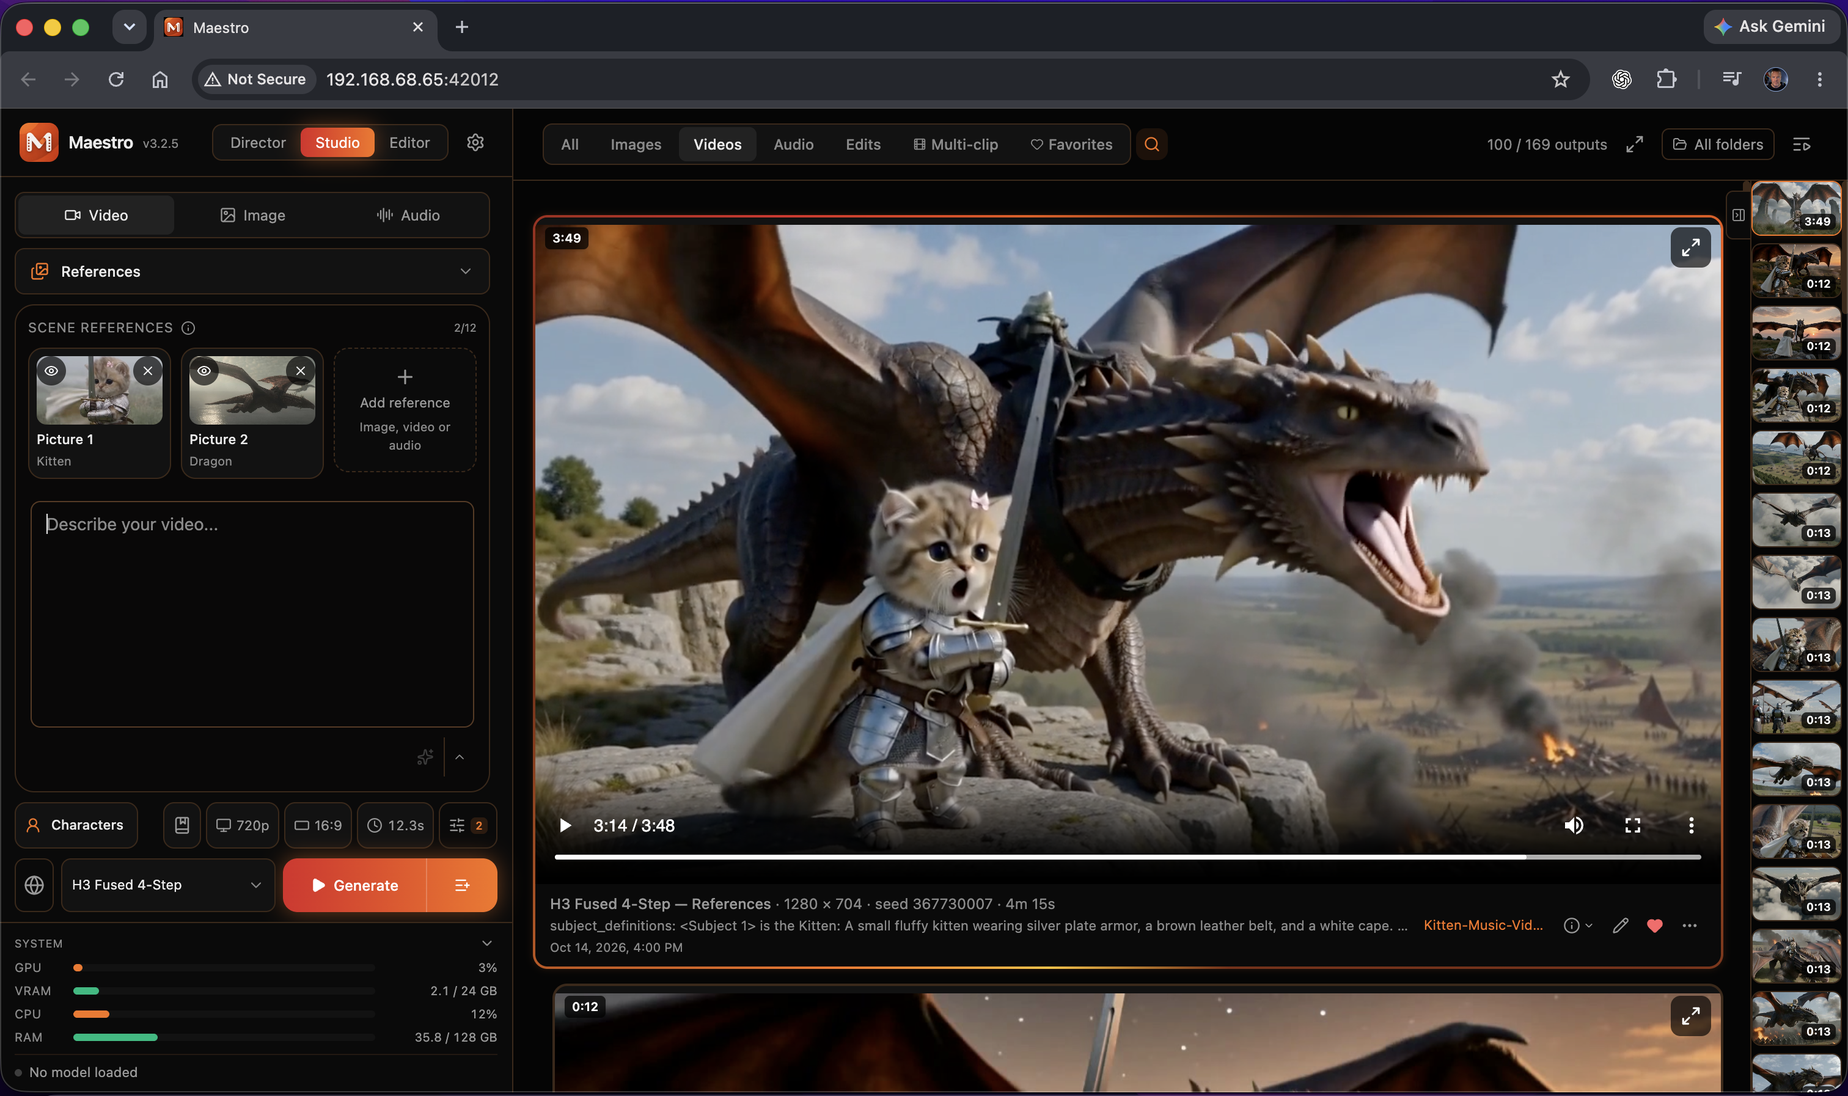
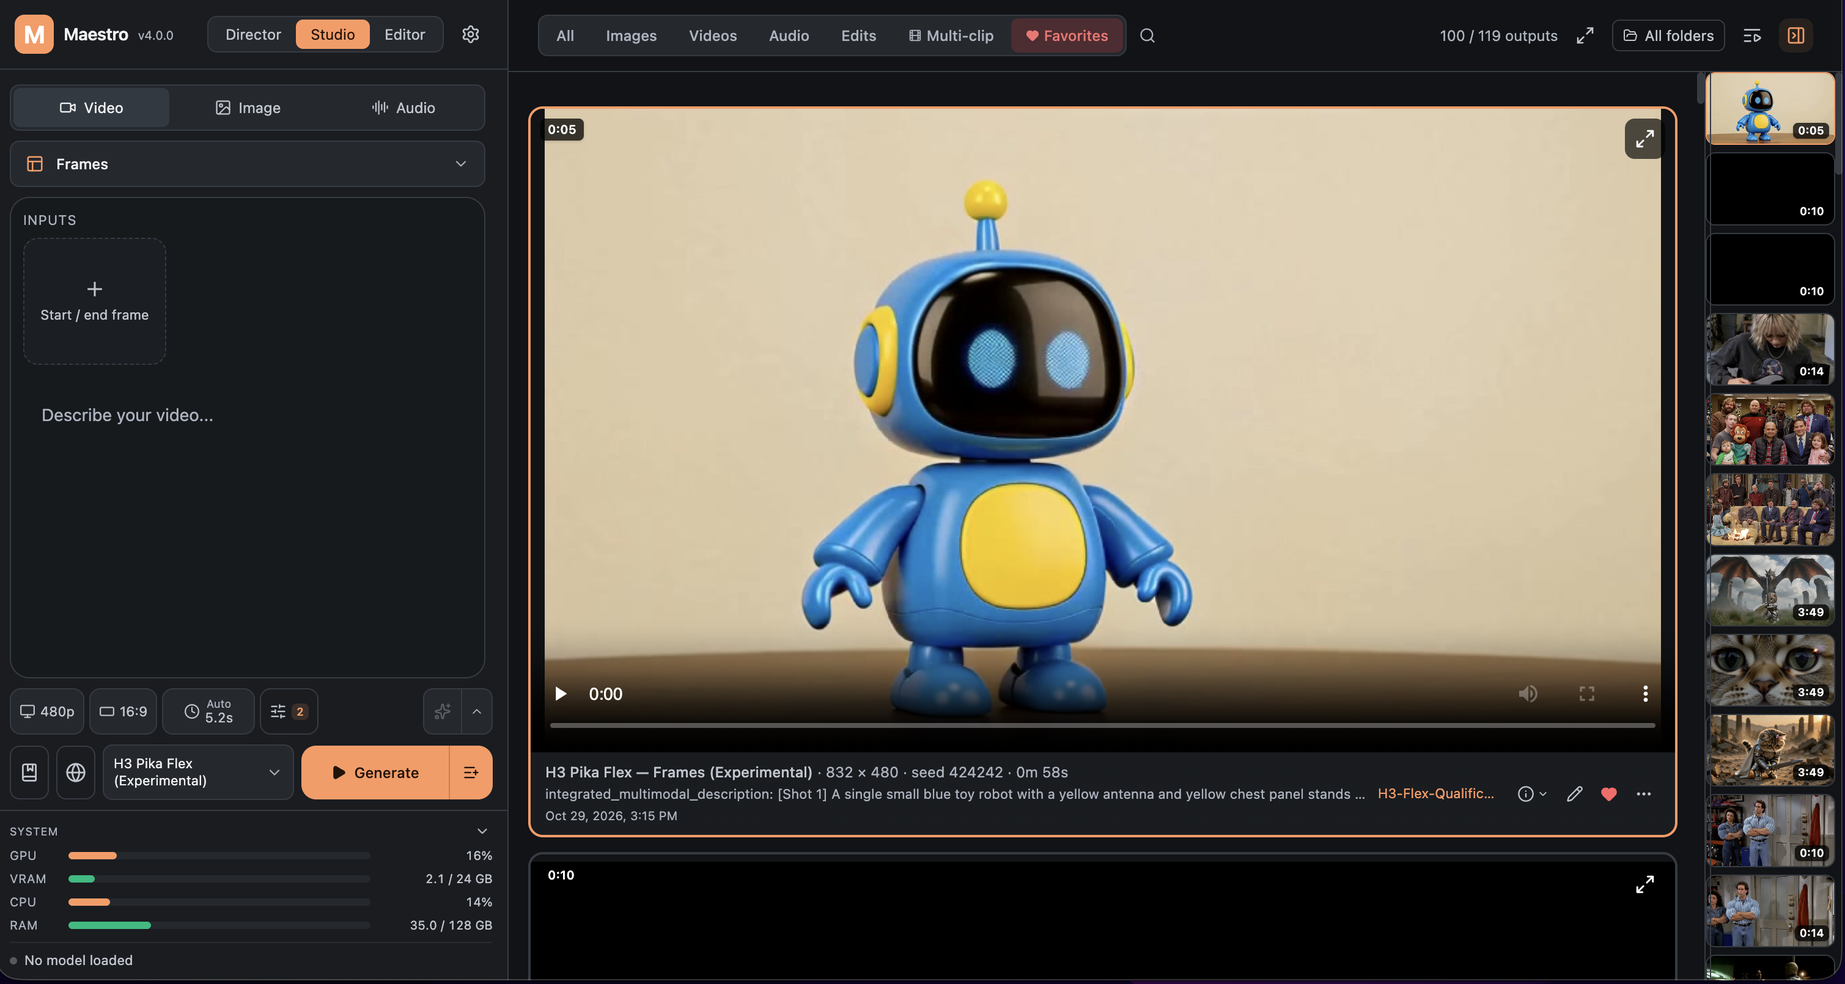
Prepare v4 candidate release notes and Graphite Studio overview

diff --git a/docs/RELEASE_NOTES_V4.0.0.md b/docs/RELEASE_NOTES_V4.0.0.md
@@ -1,11 +1,25 @@
-# Maestro v4.0.0 — Dev release candidate
+# Maestro v4.0.0 — Release candidate
 
-29 October–2 November 2026. The next major release is available on **public Dev** for
-testing. Public Main remains v3.2.5 until its separate release review. This
-candidate combines the changes below with the fixes already tested on Dev.
+Candidate notes reviewed 4 November 2026. Public Main remains v3.2.5 until
+promotion is approved. These notes describe the v4 candidate, including the
+latest reliability and reference-enhancement fixes.
 
 ## Changes since v3.2.5 Main
 
+- **A larger Editor upgrade:** a media bin, preview, Inspector and multi-track
+  timeline; more direct trimming, linked edits, transitions, keyframes, color
+  and audio controls; media previews/proxies, project recovery and export
+  options. AI round trips retain source/take information. Local Auto-edit
+  proposes a reviewable plan before changes are applied and supports undo;
+  it does not silently replace an authored timeline. Tracks are shorter and
+  the timeline height is adjustable. [Editor guide](Editor.md).
+- **Pika H3 Flex:** experimental Frames and References models, included in
+  their default enabled lists. Its fixed six-evaluation recipe uses SLA on
+  supported runtimes with a dense fallback. Sliding windows carry recent
+  motion frames, a boundary frame and stereo audio; References also retains
+  ordered source inputs. Exact source-audio conditioning and per-shot
+  soundtrack offsets support Director music videos. Experimental 1080p joins
+  the 480p, 540p, 720p and 768p choices. [Pika guide](guides/pika-h3-flex.md).
 - **Built-in Agent Access/MCP:** independent Local MCP over STDIO and Remote
   MCP over authenticated HTTPS, with optional Tailscale setup, scoped approval
   and revocable clients. Agents receive model capabilities, prompting guides,
@@ -13,6 +27,13 @@ candidate combines the changes below with the fixes already tested on Dev.
   Director productions directly, including lyrics and music-video plans using
   native song/beat analysis. Existing Pinokio and LAN browser access remains
   available. [Setup and client requirements](Agent-Access.md).
+- **Optional ComfyUI integration:** discover and reuse configured model
+  folders without moving weights, import API workflows with typed inputs and
+  component pickers, and validate them before generation. Supported Studio
+  routes and Director paths can use explicitly selected ComfyUI mappings.
+  Native remains the default. ComfyUI and its nodes must be installed and
+  managed separately; importing an arbitrary graph does not make it compatible
+  with every Maestro feature. [ComfyUI guide](ComfyUI.md).
 - **Pinokio Remote integration:** detects this installation's published browser
   address, offers a QR code and optional MCP access through the same private
   HTTPS route, and avoids a second Tailscale setup. Existing local, LAN and
@@ -33,12 +54,6 @@ candidate combines the changes below with the fixes already tested on Dev.
   enhancement and model controls. Startup and mobile recovery show loading
   states while controls and the workspace become ready. Near-widescreen videos
   use their native proportions to avoid narrow black gaps inside gallery cards.
-- **A larger Editor upgrade:** a media bin, preview, Inspector and multi-track
-  timeline; more direct trimming, linked edits, transitions, keyframes, color
-  and audio controls; media previews/proxies, project recovery and export
-  options. AI round trips retain source/take information. Local Auto-edit
-  proposes a reviewable plan before changes are applied and supports undo;
-  it does not silently replace an authored timeline.
 - **Animated titles in Studio and Editor:** describe an animation in your own
   words, optionally choose a style, and use AI planning when wanted. Frames
   generation uses a matching canvas rather than unrelated character references.
@@ -51,13 +66,10 @@ candidate combines the changes below with the fixes already tested on Dev.
   guides and updated FLUX/Qwen/image-writer guidance preserve the requested
   artistic medium. Fixes cover FLUX 3 model switching, MOSS mode switching and
   rectangular Fibo VAE decoding.
-- **H3 workflows:** experimental Pika H3 Flex for Frames and References, now
-  included in their default model lists. Its fixed six-evaluation recipe uses
-  SLA on supported runtimes with a dense fallback. Experimental sliding
-  windows carry recent motion frames, a boundary frame and stereo audio;
-  References also retains the ordered source references. Additions include
-  workflow-matched LightX2V accelerators, PTD RefAsymOPD presets and compatible
-  two-pass latent refinement. Existing model-specific recipes remain separate.
+- **H3 accelerators and refinement:** workflow-matched LightX2V accelerators,
+  PTD RefAsymOPD presets and compatible two-pass latent refinement. Existing
+  model-specific recipes remain separate; two-pass is off by default and
+  applies only to compatible standard H3 Euler jobs.
 - **Pika Flex controls:** Frames and References offer 480p, 540p, 720p, 768p
   and experimental 1080p. Reusing a native clip restores its single window;
   resolution and aspect changes retain explicitly chosen window lengths and
@@ -93,6 +105,16 @@ candidate combines the changes below with the fixes already tested on Dev.
   even under a CUDA default tensor device. The vision encoder still receives
   the explicitly selected device and precision. This avoids unintended
   preprocessing allocations; it is not a general low-memory guarantee.
+- **Reference enhancement and dialogue recovery:** video references expose
+  Character / identity, Motion / camera and Scene roles independently from
+  their audio role. Native Subject IDs and vocal IDs stay separate. Recover
+  exact speaker ownership when a listener or named prop appears near a line,
+  preserve authored speech rather than imposing a shorter writing target,
+  and avoid duplicate native sound fields in fallback prompts. A narrowly
+  identifiable final `<d>words<d>` typo is repaired without changing its words;
+  ambiguous or nested tags return a clear error. Focused repairs receive the
+  validation reasons and missing lines. Existing Motion or legacy soundtrack
+  references are not silently converted to character or voice references.
 - **Reliable startup:** the API reserves its actual bind interface through
   server startup and announces the Maestro URL only after its listener is
   ready. Busy ports fall back without taking over a shared Pinokio service.
@@ -125,12 +147,24 @@ Pika's exact-audio path completed two 124-frame reference shots and a 248-frame
 join at 832×480 / 24fps / SLA on the RTX 4090. Full CPU decoding, frame counts,
 source-audio correspondence and fixed target-audio runtime evidence passed.
 This confirms functionality for the tested case, not perfect lip sync. These
-latest MCP and LoRA changes await user testing on the 12GB and 8GB workstations.
+results belong to the earlier v4 candidate and are not a blanket qualification
+of every later fix or model setting.
 
-The release candidate is undergoing a bounded overnight check on the RTX 4090
-(24GB), RTX 3080 Ti (12GB) and RTX 5070 Laptop (8GB), alongside CPU and isolated
-UI regressions. Results must be reviewed before promoting Main; this document
-does not claim that the overnight matrix has already passed.
+The bounded three-workstation qualification completed on 3 November with the
+RTX 4090 (24GB), RTX 3080 Ti (12GB) and RTX 5070 Laptop (8GB). Reviewed native
+renders, ComfyUI outputs, Editor exports and CPU/browser checks were retained.
+Real ComfyUI Wan generation was checked on all three machines; mapped Director
+routes and reference-edit semantics have narrower CPU/mock or manual coverage.
+Local MCP was checked on 01 and 02. It remained off and unowned on 03, so that
+machine's owner-approval gate was respected rather than bypassed for a test.
+
+The 4 November reference-enhancement fixes have CPU regression coverage and
+fresh Gemma/Qwen prompt checks on 01. Four checks preserved the six supplied
+spoken lines and their native speaker bindings without a final fallback.
+These were enhancement checks, not new video renders. A writer can still
+change action detail or return an inconclusive continuity review. The latest
+revision needs final user acceptance; earlier fleet results do not establish
+that every new fix has been rendered again on 12GB and 8GB hardware.
 
 Pika continuation has two decoded 480p functional checks on the 4090. Those
 checks preserve the tested frame counts and actual motion/audio history, but
@@ -143,6 +177,29 @@ certified GPU OOM-recovery result and excludes Fish/CUDA graph capture.
 Experimental features do not establish every GPU, model, long Director project,
 Linux configuration or output-quality claim. Keep important projects and compare
 actual outputs before adopting a new workflow.
+
+Model weights retain their own licenses and use restrictions. In particular,
+review the [Fibo](Fibo-2.md) and [Worlds](Worlds-Hy-Nomas.md) guides before using
+those optional models; Maestro's application license does not replace theirs.
+
+## Upgrade and optional setup
+
+Use Pinokio's Update action while the installation is idle, restart Maestro,
+and refresh the browser. Existing projects and media remain available;
+model-specific defaults and compatibility checks still apply when selecting a
+workflow. The deliberate appearance change is described below.
+
+ComfyUI, Local MCP and Remote MCP are optional. Local MCP needs no Tailscale;
+Remote MCP can reuse an existing Pinokio Remote HTTPS route or the separate
+Tailscale integration. Follow the client-specific Agent Access instructions.
+Enabling an agent connection does not require changing ordinary LAN browser
+access or automatically configuring a ComfyUI server.
+
+When reusing older video references for a character, choose **Character /
+identity** and, for a cloned speaking voice, **Voice reference** as the video's
+audio role. A **Motion / camera** video or a legacy paired soundtrack keeps
+that role until changed explicitly. A room or environment image belongs under
+**Scene**; **Composition** controls framing and blocking rather than identity.
 
 ## First opening v4
 

diff --git a/README.md b/README.md
@@ -2,7 +2,7 @@
 
 A one-click local AI **creative studio, director, and video editor** for creators. Maestro combines a modern interface with powerful image, video, and audio generation, an LLM-directed production workflow, and a non-destructive multi-track editor. Optimized for LTX-2.5, MiniMax H3, and the latest local creative models and LoRAs.
 
-![Maestro v3.2.5 Studio with image references and a generated video](docs/images/maestro-ui-october-2026.png)
+![Maestro v4 Studio in Graphite Dark with an experimental Pika H3 Flex video](docs/images/maestro-ui-october-2026.png)
 
 [Features](#what-it-does) · [Install](#install) · [Updates](#updates) · [Guides](docs/README.md) · [Full update history](docs/UPDATE_HISTORY.md)
 
@@ -21,6 +21,7 @@ Create with **Studio**, plan a production with **Director**, and finish it in th
 - **Reusable characters and references.** Save and share characters with appearance references and optional voices. Combine image, video and audio references in supported workflows to guide identity, action and sound. [Characters and RefMods](docs/Maestro-Characters.md).
 - **Built-in AI writing.** Local language and vision models help develop prompts and plan productions, with models downloaded on first use. Optional external providers include OpenAI, Anthropic and compatible local endpoints such as LM Studio. [Local AI guide](docs/LLM-runtime.md).
 - **Connect your AI agent.** Built-in MCP lets compatible agents discover capabilities, write model-aware prompts, use saved references, submit Studio and Director work, and manage projects. Use Local MCP on the Maestro computer or optional authenticated Tailscale access from another computer. [Agent Access setup](docs/Agent-Access.md).
+- **Bring your ComfyUI setup.** Reuse configured model folders, import and validate API workflows, or map supported Maestro requests to an existing ComfyUI server. The integration is optional and off by default; ComfyUI and its custom nodes remain separately managed. [ComfyUI guide](docs/ComfyUI.md).
 - **Models and LoRAs in one place.** Browse compatible CivitAI LoRAs and community checkpoints, manage downloads and updates, and use prompting guides and recommended strengths. [H3 checkpoint imports](docs/H3-checkpoint-import.md).
 - **Performance matched to your PC.** Auto-Tune uses your GPU, VRAM and RAM to choose starting settings. Quantization, memory offloading and duration recommendations help smaller GPUs, while advanced controls remain available. [Performance guide](docs/Performance-auto-tune.md).
 - **An organized library, wherever you work.** Separate projects into workspaces, search across folders, save favorites and reload generation settings. Use the responsive interface on a phone or tablet, with optional completion alerts and private Tailscale access to your running PC. [Remote access and notifications](docs/TAILSCALE_REMOTE_ACCESS.md).
@@ -36,33 +37,34 @@ Runtime upgrades are explicit menu actions. A missing performance-runtime marker
 does not automatically run Update when you open the launcher. If offered,
 **Start with Compatibility Runtime** keeps the existing runtime available.
 
-### v4.0.0 (updated 2026-11-02) — Dev release candidate
+### v4.0.0 (updated 2026-11-04) — Release candidate
 
 The next major Main release is being prepared on **Dev** as v4.0.0.
 
-- **A fresh appearance:** first opening v4 switches to Graphite Studio in Dark
-  mode, including browsers with a saved theme. This happens once; choose another
-  theme or appearance in Settings afterward and that choice stays saved.
 - **An upgraded Editor and animated titles:** a fuller editing workspace,
-  reviewable Auto-edit plans, chroma key and transparent MOV export; titles can
-  also be generated directly in Studio.
-- **New creative models and tools:** MOSS reference editors, Fibo 2.0, H3
-  accelerators/PTD/two-pass options, FlashVSR+ Turbo and experimental Pika H3
-  Flex with motion/audio sliding windows. Flex is enabled in the default Frames
-  and References lists. Worlds and Profile 0 remain optional experimental tools.
-- **Pika Flex control fixes:** five resolution tiers from 480p through experimental
-  1080p; clip settings reuse and resolution/aspect changes retain an explicitly
-  chosen window. Incompatible First Block and extra Turbo controls are excluded.
-- **Smoother daily use:** compact pinned Studio controls, clearer startup and
-  mobile loading, resizable thumbnails, image-workflow fixes and quieter logs.
+  reviewable Auto-edit plans with undo, chroma key and transparent ProRes 4444
+  MOV export. Describe animated titles directly in Studio or the Editor.
+- **Pika H3 Flex:** experimental Frames and References generation, source-audio
+  conditioning, SLA with a compatibility fallback, and motion/audio sliding
+  windows. Five resolution tiers include experimental 1080p; saved window
+  choices survive settings reuse and resolution changes.
 - **Built-in MCP:** independent local and remote connections, scoped approval,
   model-aware authoring guides, saved characters and externally authored
   music-video plans with native song analysis. Existing browser access stays
   available.
-- **Latest testing fixes:** source-audio-driven Pika References, correct
-  per-shot soundtrack offsets, improved character bindings, experimental
-  FastH3 LoRAs, Turbo LoRA filters, failed-job settings and a more compact,
-  height-adjustable Editor timeline.
+- **Optional ComfyUI integration:** reuse model folders, import typed API
+  workflows and route supported native or Director requests through an existing
+  ComfyUI server. Nothing is enabled or installed automatically.
+- **A fresh appearance:** first opening v4 switches to Graphite Studio in Dark
+  mode once. Choose another theme afterward and that choice stays saved.
+  Compact pinned controls, resizable thumbnails and mobile/startup recovery
+  make everyday use smoother.
+- **More creative models and finishing:** MOSS reference editors, Fibo 2.0,
+  Qwen reference caches, H3 accelerators/PTD/two-pass options and FlashVSR+ Turbo.
+  Worlds and Profile 0 remain optional experimental tools.
+- **More reliable writing and review:** clearer reference roles, exact dialogue
+  and speaker recovery, retained rejected drafts, Director planning fixes,
+  failed-job settings/LoRA details, Turbo LoRA filters and quieter logs.
 
 The existing Dev updates are included. See the
 [v4.0.0 candidate notes and testing limits](docs/RELEASE_NOTES_V4.0.0.md).

diff --git a/docs/UPDATE_HISTORY.md b/docs/UPDATE_HISTORY.md
@@ -4,22 +4,34 @@ Every dated update announcement from Maestro's first public release onward, newe
 
 [Back to the README](../README.md#updates) · [Detailed changelog](../CHANGELOG.md)
 
-### v4.0.0 (2026-10-29–30) — Dev release candidate
+### v4.0.0 (updated 2026-11-04) — Release candidate
 
 The next major Main release is being prepared on **Dev** as v4.0.0.
 
-- **A fresh appearance:** first opening v4 switches to Graphite Studio in Dark
-  mode, including browsers with a saved theme. This happens once; choose another
-  theme or appearance in Settings afterward and that choice stays saved.
 - **An upgraded Editor and animated titles:** a fuller editing workspace,
-  reviewable Auto-edit plans, chroma key and transparent MOV export; titles can
-  also be generated directly in Studio.
-- **New creative models and tools:** MOSS reference editors, Fibo 2.0, H3
-  accelerators/PTD/two-pass options, FlashVSR+ Turbo and experimental Pika H3
-  Flex with motion/audio sliding windows. Flex is enabled in the default Frames
-  and References lists. Worlds and Profile 0 remain optional experimental tools.
-- **Smoother daily use:** compact pinned Studio controls, clearer startup and
-  mobile loading, resizable thumbnails, image-workflow fixes and quieter logs.
+  reviewable Auto-edit plans with undo, chroma key and transparent ProRes 4444
+  MOV export. Describe animated titles directly in Studio or the Editor.
+- **Pika H3 Flex:** experimental Frames and References generation, source-audio
+  conditioning, SLA with a compatibility fallback, and motion/audio sliding
+  windows. Five resolution tiers include experimental 1080p; saved window
+  choices survive settings reuse and resolution changes.
+- **Built-in MCP:** independent local and remote connections, scoped approval,
+  model-aware authoring guides, saved characters and externally authored
+  music-video plans with native song analysis. Existing browser access stays
+  available.
+- **Optional ComfyUI integration:** reuse model folders, import typed API
+  workflows and route supported native or Director requests through an existing
+  ComfyUI server. Nothing is enabled or installed automatically.
+- **A fresh appearance:** first opening v4 switches to Graphite Studio in Dark
+  mode once. Choose another theme afterward and that choice stays saved.
+  Compact pinned controls, resizable thumbnails and mobile/startup recovery
+  make everyday use smoother.
+- **More creative models and finishing:** MOSS reference editors, Fibo 2.0,
+  Qwen reference caches, H3 accelerators/PTD/two-pass options and FlashVSR+ Turbo.
+  Worlds and Profile 0 remain optional experimental tools.
+- **More reliable writing and review:** clearer reference roles, exact dialogue
+  and speaker recovery, retained rejected drafts, Director planning fixes,
+  failed-job settings/LoRA details, Turbo LoRA filters and quieter logs.
 
 The existing Dev updates are included. See the
 [v4.0.0 candidate notes and testing limits](RELEASE_NOTES_V4.0.0.md).

diff --git a/CHANGELOG.md b/CHANGELOG.md
@@ -14,7 +14,21 @@ pipeline's own history lives in [app/docs/CHANGELOG.md](app/docs/CHANGELOG.md).
   branch tree. Extend the repository guard to reject private notes, local
   configuration and runtime artifacts without printing their contents.
 
-## [4.0.0] - 2026-10-29–30 — Dev release candidate
+## [4.0.0] — Release candidate (updated 2026-11-04)
+
+**4 November — Release preparation and reliability:** add optional ComfyUI
+model-folder reuse, typed API workflow imports, component pickers and explicit
+Native/Comfy routing, including supported Director paths. ComfyUI remains
+separately managed and off by default. Fix wrapped H3 encoder namespaces,
+Director scene-image handling with no image-generation model, selected join
+codecs/containers, suspended preview recovery and several runtime name errors.
+Reference enhancement now distinguishes character, motion and scene videos,
+keeps vocal IDs separate from Subject IDs, and preserves authored speech when
+repairing a rejected draft. Recover a narrowly identifiable final dialogue-tag
+typo, avoid shorter automatic word targets for supplied lines, keep named props
+from stealing dialogue ownership, and include actual failures in repair requests.
+Update the README image and release documentation; Main promotion remains
+pending approval and final candidate validation.
 
 **2 November — Agent Access and testing updates:** built-in Local MCP and
 authenticated Remote MCP can be enabled independently. Add scoped clients,

diff --git a/docs/README.md b/docs/README.md
@@ -64,7 +64,7 @@ Start with the [README](../README.md) for installation and the feature overview.
 - [Complete update history](UPDATE_HISTORY.md) — every dated update announcement, including those summarized in the README.
 - [WanGP October ports](WanGP-October-2026-Ports.md) — first-batch scope and validation limits.
 - [Detailed changelog](../CHANGELOG.md) — development changes and release entries.
-- [Dev v4.0.0 preview notes](RELEASE_NOTES_V4.0.0.md) — current Dev version and the one-time Graphite Dark introduction.
+- [v4.0.0 candidate notes](RELEASE_NOTES_V4.0.0.md) — features, upgrade behavior, validation scope and the one-time Graphite Dark introduction.
 - [v3.3.0 porting notes](RELEASE_NOTES_V3.3.0.md) — port scope, validation and testing instructions.
 - [Main v3.2.5 release notes](RELEASE_NOTES_V3.2.5.md) — stable release behavior and known limits.
 - [API examples](../README.md#notification-and-remote-access-api) and [developer prompt bench](../README.md#developer-prompt-bench).
